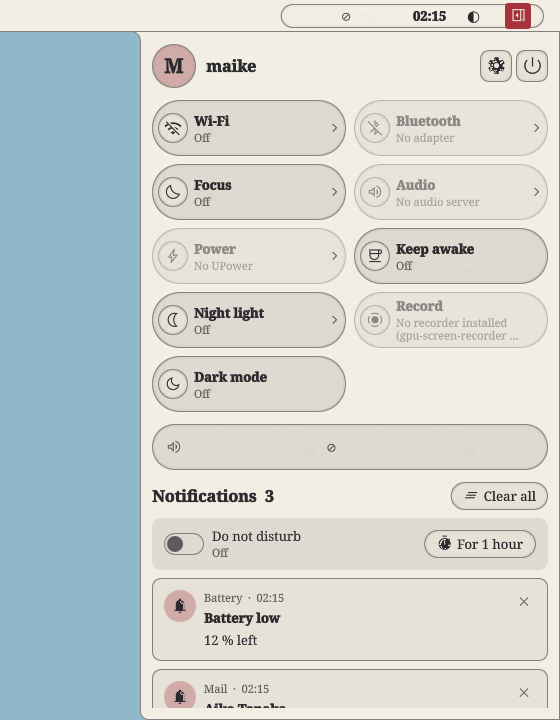
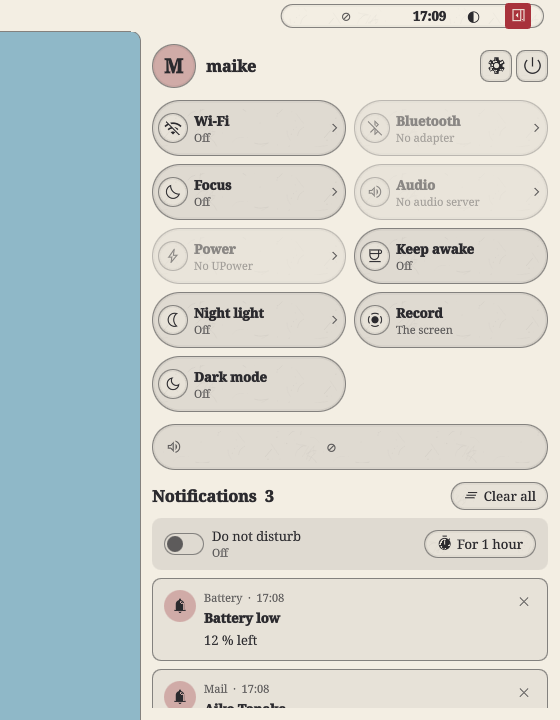
test(sidebar): the layout's mode table, hover per side, pinned with a window beside, drag/double-click/keyboard resize (W44); contract rows 521-524

diff --git a/frontend/surfaces/Sidebar.qml b/frontend/surfaces/Sidebar.qml
@@ -123,6 +123,17 @@ Scope {
             readonly property string barEdge: joinStart.indexOf("bar:") === 0 ? joinStart.substring(4)
                 : (joinEnd.indexOf("bar:") === 0 ? joinEnd.substring(4) : (sideBar ? sb.side : "none"))
             function zoneOf(e) { var x = edges[e] || {}; return x.holder && x.holder !== "none" ? sb.num(x.reserve, 0) : 0 }
+            // A change of draw mode while the column is out moves its edges and its fillets (the radius grows or goes)
+            // over `motion.std`, never a jump (docs/ux/layout.md "Motion"); cut without motion. Nothing runs at rest.
+            readonly property bool morphs: held && Theme.springOn
+            property real aInset: inset
+            property real aStart: spanStart
+            property real aEnd: spanEnd
+            property real aR: joinR
+            Behavior on aInset { enabled: col.morphs; NumberAnimation { duration: Theme.stdMs; easing.type: Easing.OutCubic } }
+            Behavior on aStart { enabled: col.morphs; NumberAnimation { duration: Theme.stdMs; easing.type: Easing.OutCubic } }
+            Behavior on aEnd { enabled: col.morphs; NumberAnimation { duration: Theme.stdMs; easing.type: Easing.OutCubic } }
+            Behavior on aR { enabled: col.morphs; NumberAnimation { duration: Theme.stdMs; easing.type: Easing.OutCubic } }
 
             // ---- width ----
             readonly property int maxW: Math.max(320, Math.min(640, sw - inset - Theme.gap))
@@ -341,9 +352,9 @@ Scope {
 
                     // ---- geometry: the canonical frame is the window's side part, `boxW` wide, its outer side at the
                     // screen's edge (mirrored for the left side); y as the window's ----
-                    readonly property real y0: col.spanStart - offTop
-                    readonly property real y1: col.sh - col.spanEnd - offTop
-                    readonly property real rx1: boxW - col.inset
+                    readonly property real y0: col.aStart - offTop
+                    readonly property real y1: col.sh - col.aEnd - offTop
+                    readonly property real rx1: boxW - col.aInset
                     readonly property real rx0: rx1 - col.colW
                     readonly property real shX0: rx0 + col.off
                     readonly property real shX1: rx1 + col.off
@@ -495,9 +506,9 @@ Scope {
                                 openO: win.openO
                                 // A join with the screen's edge is flush, without a fillet; a bar or the band: the
                                 // layout's radius (0 = connected, a straight join).
-                                neckT: col.joinStart === "edge" ? 0 : col.joinR
-                                neckB: col.joinEnd === "edge" ? 0 : col.joinR
-                                neckO: col.sideBar ? col.joinR : 0
+                                neckT: col.joinStart === "edge" ? 0 : col.aR
+                                neckB: col.joinEnd === "edge" ? 0 : col.aR
+                                neckO: col.sideBar ? col.aR : 0
                                 squareOuter: !col.floating
                                 flipX: sb.side === "left"
                                 // Where the neighbour rules its edge (line chrome; floating keycap groups draw no strip).

diff --git a/frontend/surfaces/Dock.qml b/frontend/surfaces/Dock.qml
@@ -48,6 +48,9 @@ Scope {
             readonly property bool joined: draw !== "floating"
             readonly property int inset: typeof ld.inset === "number" ? ld.inset : Theme.gap
             readonly property int joinR: joined ? Math.max(0, typeof ld.radius === "number" ? ld.radius : ShellLayout.joinRadius) : 0
+            // Dynamic ↔ connected morphs the fillets (the radius grows or goes over `motion.std`), never a jump.
+            property real aR: joinR
+            Behavior on aR { enabled: Theme.springOn && dock.shownAmt > 0; NumberAnimation { duration: Theme.stdMs; easing.type: Easing.OutCubic } }
             readonly property var edgeDoc: (lay.edges || {})[edge] || ({})
             readonly property bool holder: edgeDoc.holder === "dock"
             readonly property int reserve: holder && typeof edgeDoc.reserve === "number" ? edgeDoc.reserve : 0
@@ -465,8 +468,8 @@ Scope {
                                 y1: dock.horiz ? win.height - body.y : body.y + body.height - Theme.shadowDy
                                 openT: dock.horiz
                                 openO: !dock.horiz
-                                neckT: dock.joinR
-                                neckO: dock.joinR
+                                neckT: dock.aR
+                                neckO: dock.aR
                                 radius: Theme.rLg + 4
                                 squareOuter: false
                                 flipY: dock.horiz

diff --git a/docs/CONTRACT-CHANGE.md b/docs/CONTRACT-CHANGE.md
@@ -307,3 +307,7 @@ schema types). They append a request here; the lead decides, implements, and rec
 | 485 | 2026-10-26 | W43-layout | `mods/webdock/test/test-sidebar.sh` (not owned), `profiles/terminal-dense.toml` (not owned) | test-sidebar.sh sets `sidebar.left` / `sidebar.right` as lists (v2): now `sidebar.left.sections` / `sidebar.right.sections` (the set is refused as an unknown key). The bundled profiles still say `schema_version = 2` and terminal-dense `bar.edge = "bottom"`: they load as v3 in memory (tested), but rewrite them as v3 files. | Old keys outside the card's paths. || done (lead) |
 | 486 | 2026-10-26 | W43-layout | PROTOCOL §6 (`actions` query), §3.1 (`runtime.ui.shown`) | (a) `help` is the label's text in the daemon's language (from the `i18n` document), else its key; `args` comes from `ActionRegistry::register_with_args` / `describe` — only the layout, sidebar, island, tray, peek and polkit actions name theirs so far (`""` for the rest; a row for the other owners). (b) `layout.toggle {target: "sidebar:<side>"}` lists the sidebar in `shown`, apart from `runtime.ui.sidebar` (which `sidebar.toggle` sets); `sidebar.close` (and everything that closes a sidebar) takes the `sidebar:*` entries out, `ui.close` all of them. Decide whether a sidebar target should rather drive `runtime.ui.sidebar`, so the frontend reads one signal. | As implemented; the frontend (W44) needs one answer. || decided: a `sidebar:<side>` target drives `sidebar.toggle` (one truth, `runtime.ui.sidebar`; no `shown` entry) — W44-surfaces |
 | 520 | 2026-10-26 | W44-surfaces (row 486 decided) | PROTOCOL §3.1 (`runtime.ui.shown`), §6 (`layout.toggle`) | Drop `sidebar:<side>` from the `shown` entries: `layout.toggle {target: "sidebar:<side>", output?}` now runs `sidebar.toggle {side, output?}` (`runtime.ui.sidebar` / `sidebar_output`; without `output` the frontend's focused output, never `"*"`), so a sidebar never appears in `shown`. Say so in §6's `layout.toggle` text. The mock has no `layout.toggle` yet (mock parity row for the lead). | One truth for the sidebar (row 486); kurashid `wiring::open_sidebar`, test `tests/layout.rs::layout_toggle_of_a_sidebar_drives_sidebar_toggle`. | |
+| 521 | 2026-10-26 | W44-surfaces | `frontend/components/sidebar/SidebarGeom.qml` (W44-bar: inset only), Bar.qml's reader | Key the openings by output **and side** (and allow one per bar edge): `set(output, side, edge, from, to)`, `openingsOf(output) → [{side, edge, from, to}]`. Today one slot per output: two columns out at once (both sides pinned, or one pinned and one toggled) overwrite each other, and a column that joins a top and a bottom bar (image 6) can publish only one of its two joins. Sidebar.qml publishes the start join (else the end one, else a side bar) until then. | Line chrome: the bar's rule must open under every column that meets it. | |
+| 522 | 2026-10-26 | W44-surfaces | PROTOCOL §3.1 settled rules ("the sidebars beside a floating bar reach the band"), `kurashi-layout` | A floating sidebar's `span.start` is `band + gap` even under a floating top bar (`inset band + gap`, `bar_size` deep): the column stands over the bar's end (measured: layout.draw = floating, the right sidebar at y 8 over a bar at 8..40). Likewise a dynamic column beside a floating bar reaches the band and covers the bar's end while it is out. Decide: (a) a sidebar under a floating bar starts below it (`band + gap + bar_size + gap` floating; the fillet then joins nothing), or (b) the floating bar ends before a column that is out (the bar's inset on that side grows by the column's width while it is pinned; a toggled one may cover it), or (c) as now. Sidebar.qml draws what the document says. | Image 10 shows the dynamic case; the floating × floating case is not drawn anywhere. | |
+| 523 | 2026-10-26 | W44-surfaces | `crates/kurashi-mock` | Mock parity: `layout.toggle {target, output?}` (and row 486: a `sidebar:<side>` target runs `sidebar.toggle`, no `shown` entry). The mock answers it as unknown; frontend tests patch `runtime.ui.shown` with `mock.doc` instead. | Mock parity (K28). | |
+| 524 | 2026-10-26 | W44-surfaces | `frontend/core/EdgeReveal.qml` (core) | Fold `frontend/components/sidebar/EdgeHold.qml` into EdgeReveal: EdgeReveal releases its strip once the surface is out, so a pointer that rests on the edge (no motion) gets no `enter` on the window mapped under it (sway, measured) — the surface hides 400 ms later and the strip, mapped again under the pointer, reveals it again: a loop every ~0.9 s. EdgeHold keeps a second claim on the strip for as long as the surface reveals on hover, and holds it out while the pointer stays on the strip; the surface leaves its outermost 2 px out of its input region. The dock and the sidebars use it; the bars (W44-bar) need the same. | One reveal model for every consumer (K71). | |
